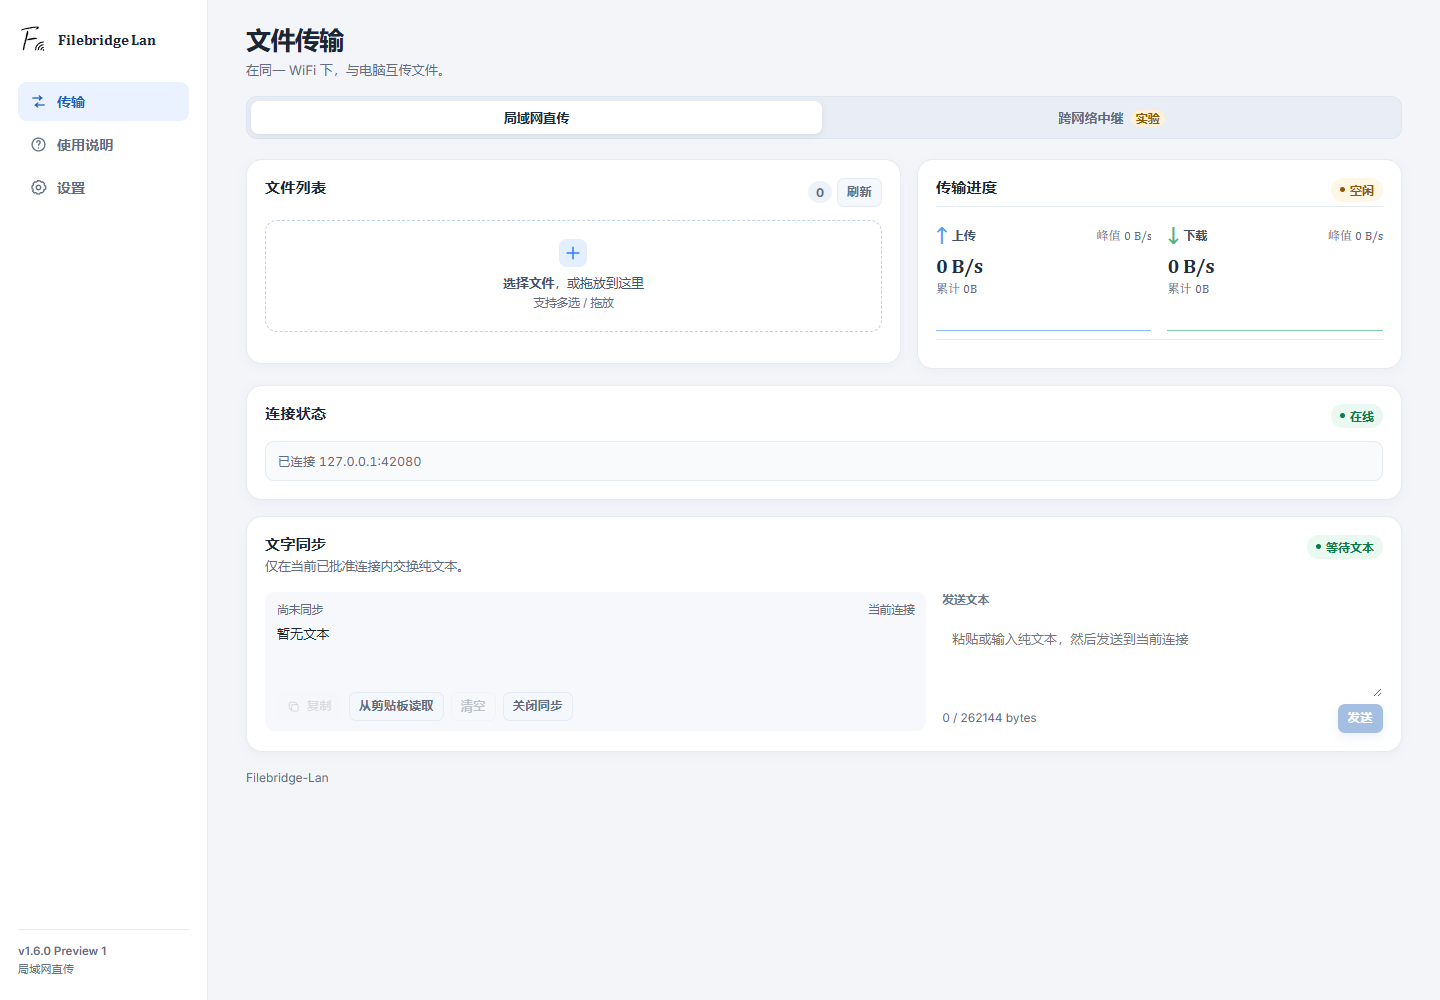
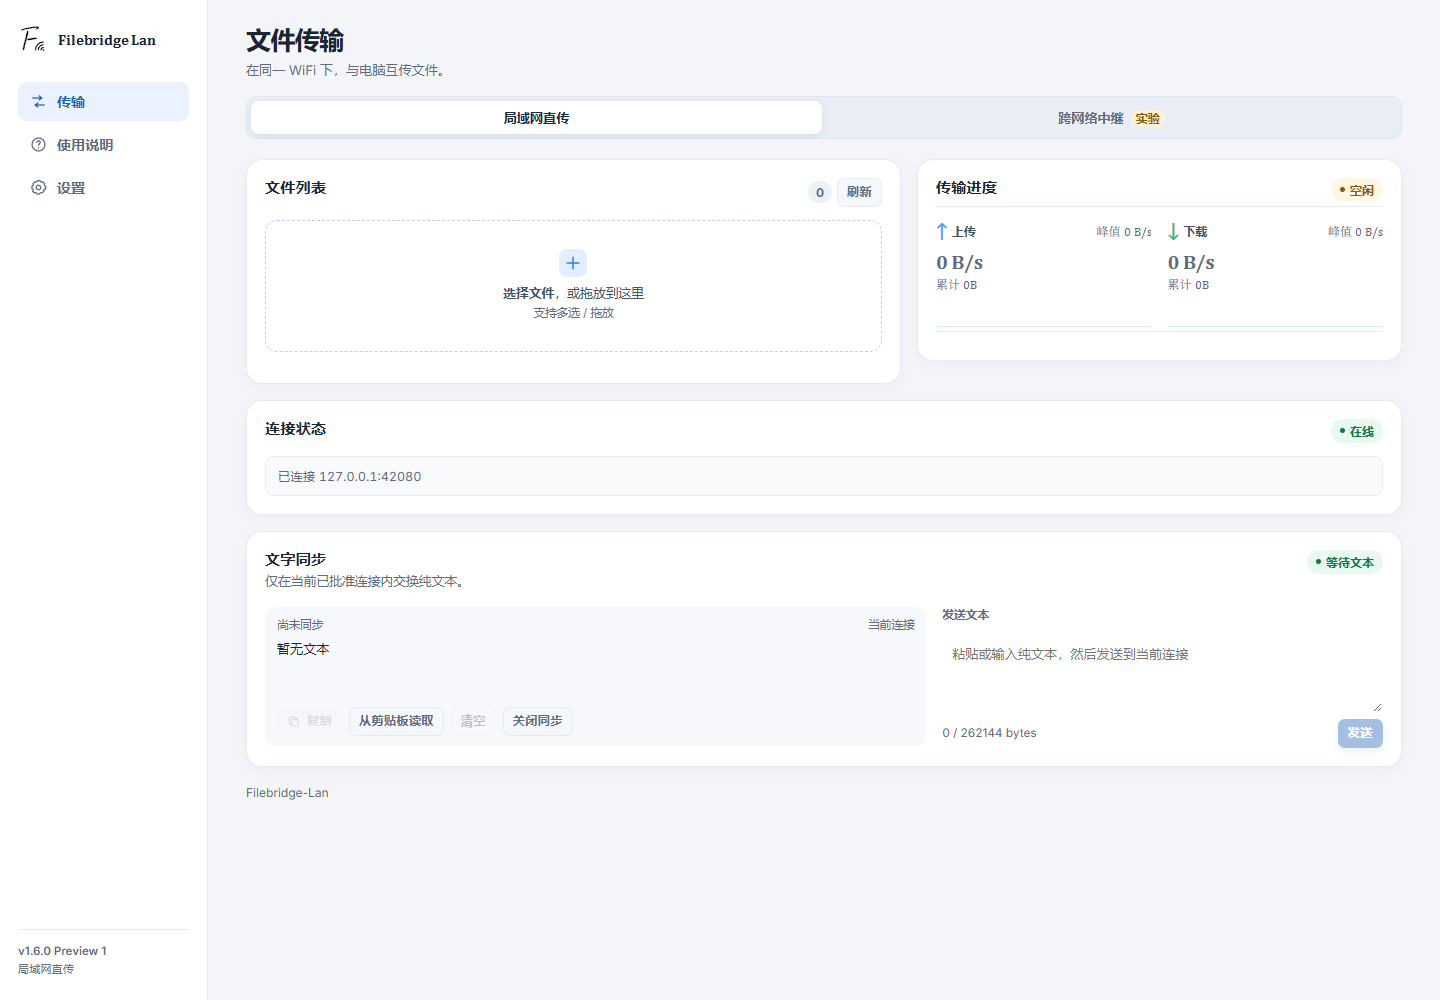
feat: quiet the idle transfer state

diff --git a/src/dashboard.css b/src/dashboard.css
@@ -3339,3 +3339,30 @@ input {
     min-width: 44px;
   }
 }
+/* Onboard pass: make the resting state read as ready, not a failed measurement. */
+.progress-card.is-idle .rate-value,
+.progress-card.is-idle .rate-peak,
+.progress-card.is-idle .rate-total {
+  color: var(--text-dim);
+}
+
+.progress-card.is-idle .rate-value {
+  font-weight: 600;
+}
+
+.progress-card.is-idle .rate-chart {
+  opacity: 0.35;
+}
+
+.progress-card.is-idle .rate-grid {
+  padding-top: 4px;
+  padding-bottom: 4px;
+}
+
+.files-card:has(.file-list:empty) .drop-zone {
+  min-height: 132px;
+}
+
+.empty-state {
+  color: var(--text-dim);
+}
